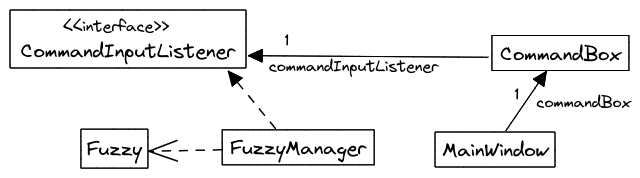
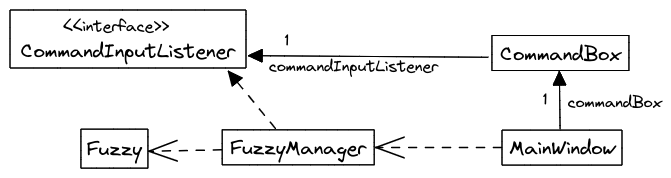
Update class diagram for Fuzzy components

diff --git a/docs/DeveloperGuide.md b/docs/DeveloperGuide.md
@@ -307,9 +307,10 @@ searching, we need some way to track the state of the command box, i.e. at any
 point in time, whether it should be taking in commands or performing fuzzy
 searching. This is achieved through a simple boolean `isListening` flag in
 `CommandBox` itself. Toggling between the two states is managed by key actions,
-and is not relevant or necessary for this section. Fuzzy searching is enabled
-if and only if `isListening` is set to `true`. (Indeed, our discussion of fuzzy
-searching above assumed that the `CommandBox` was in the listening state.)
+an explanation for which is not relevant or necessary for this section. Fuzzy
+searching is enabled if and only if `isListening` is set to `true`. (Indeed,
+our discussion of fuzzy searching above assumed that the `CommandBox` was in
+the listening state.)
 
 The activity diagram below illustrates this dispatching of state.
 
